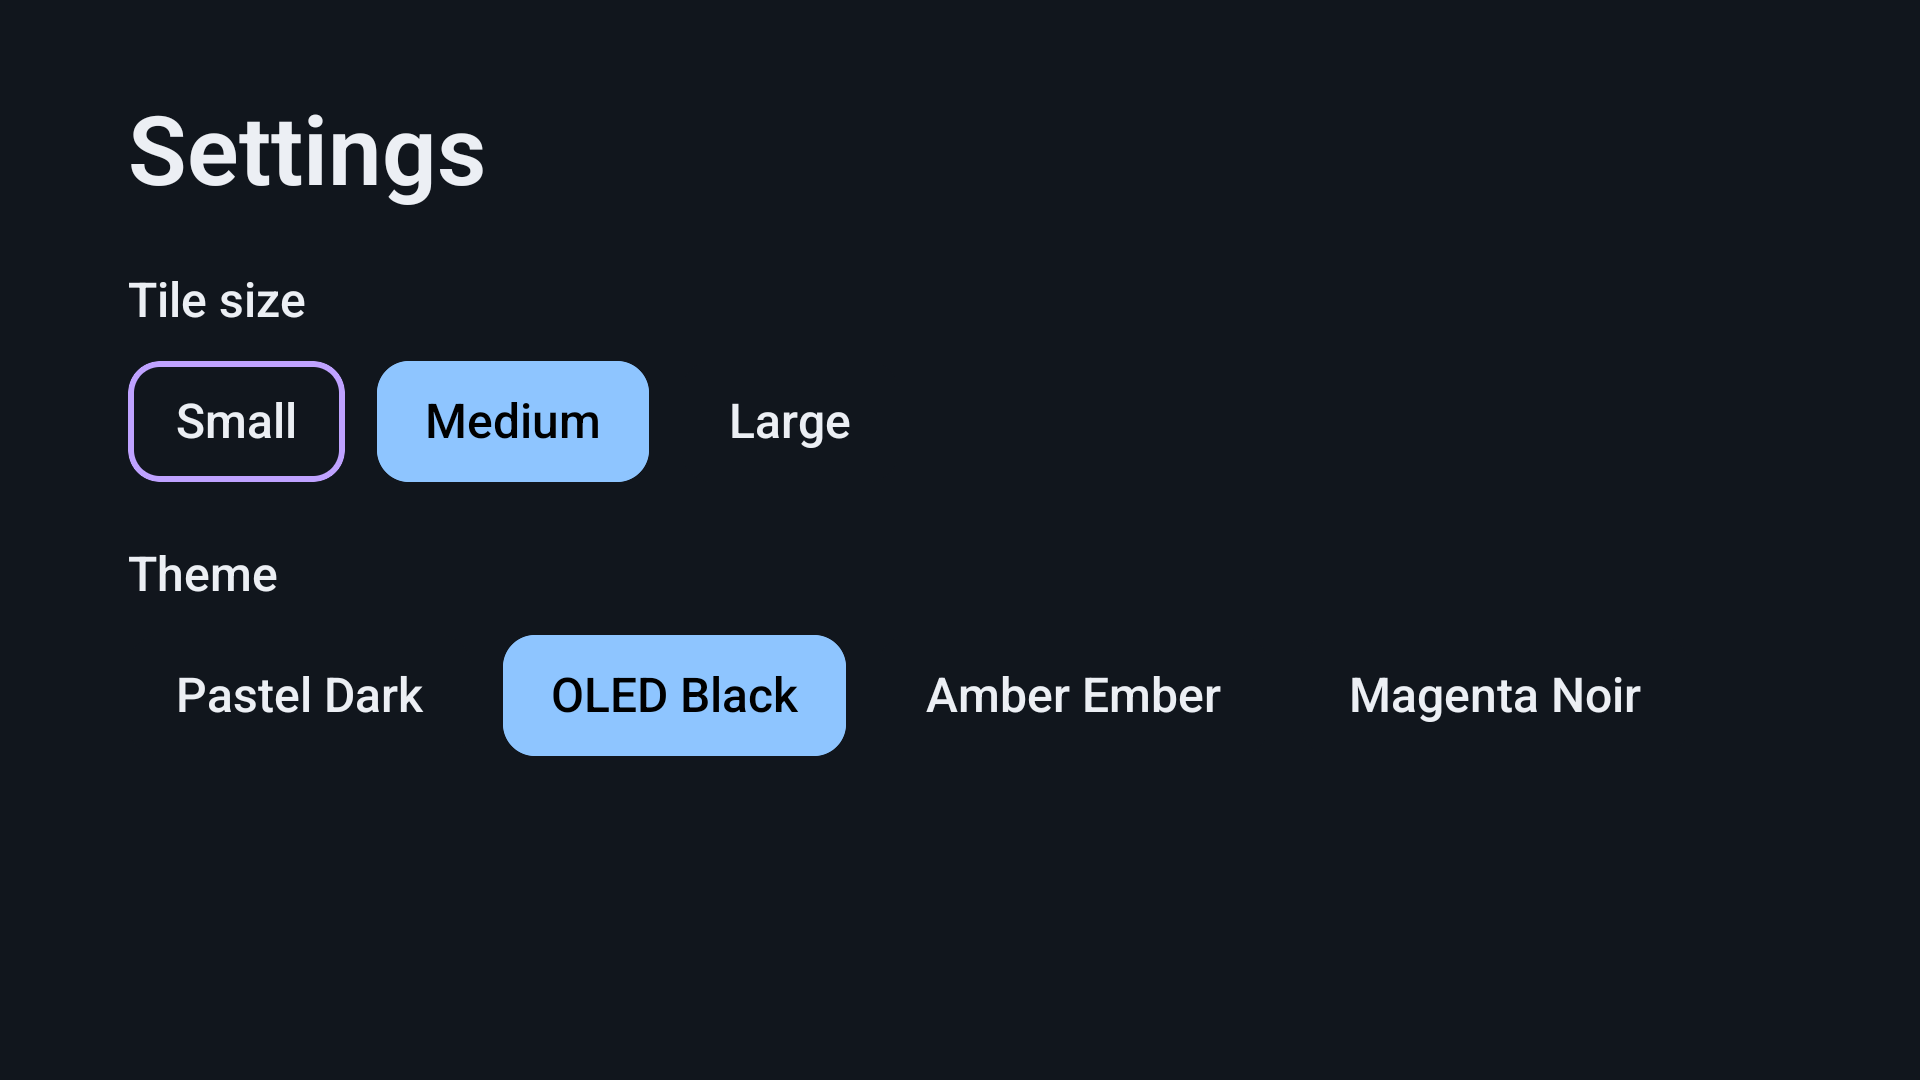
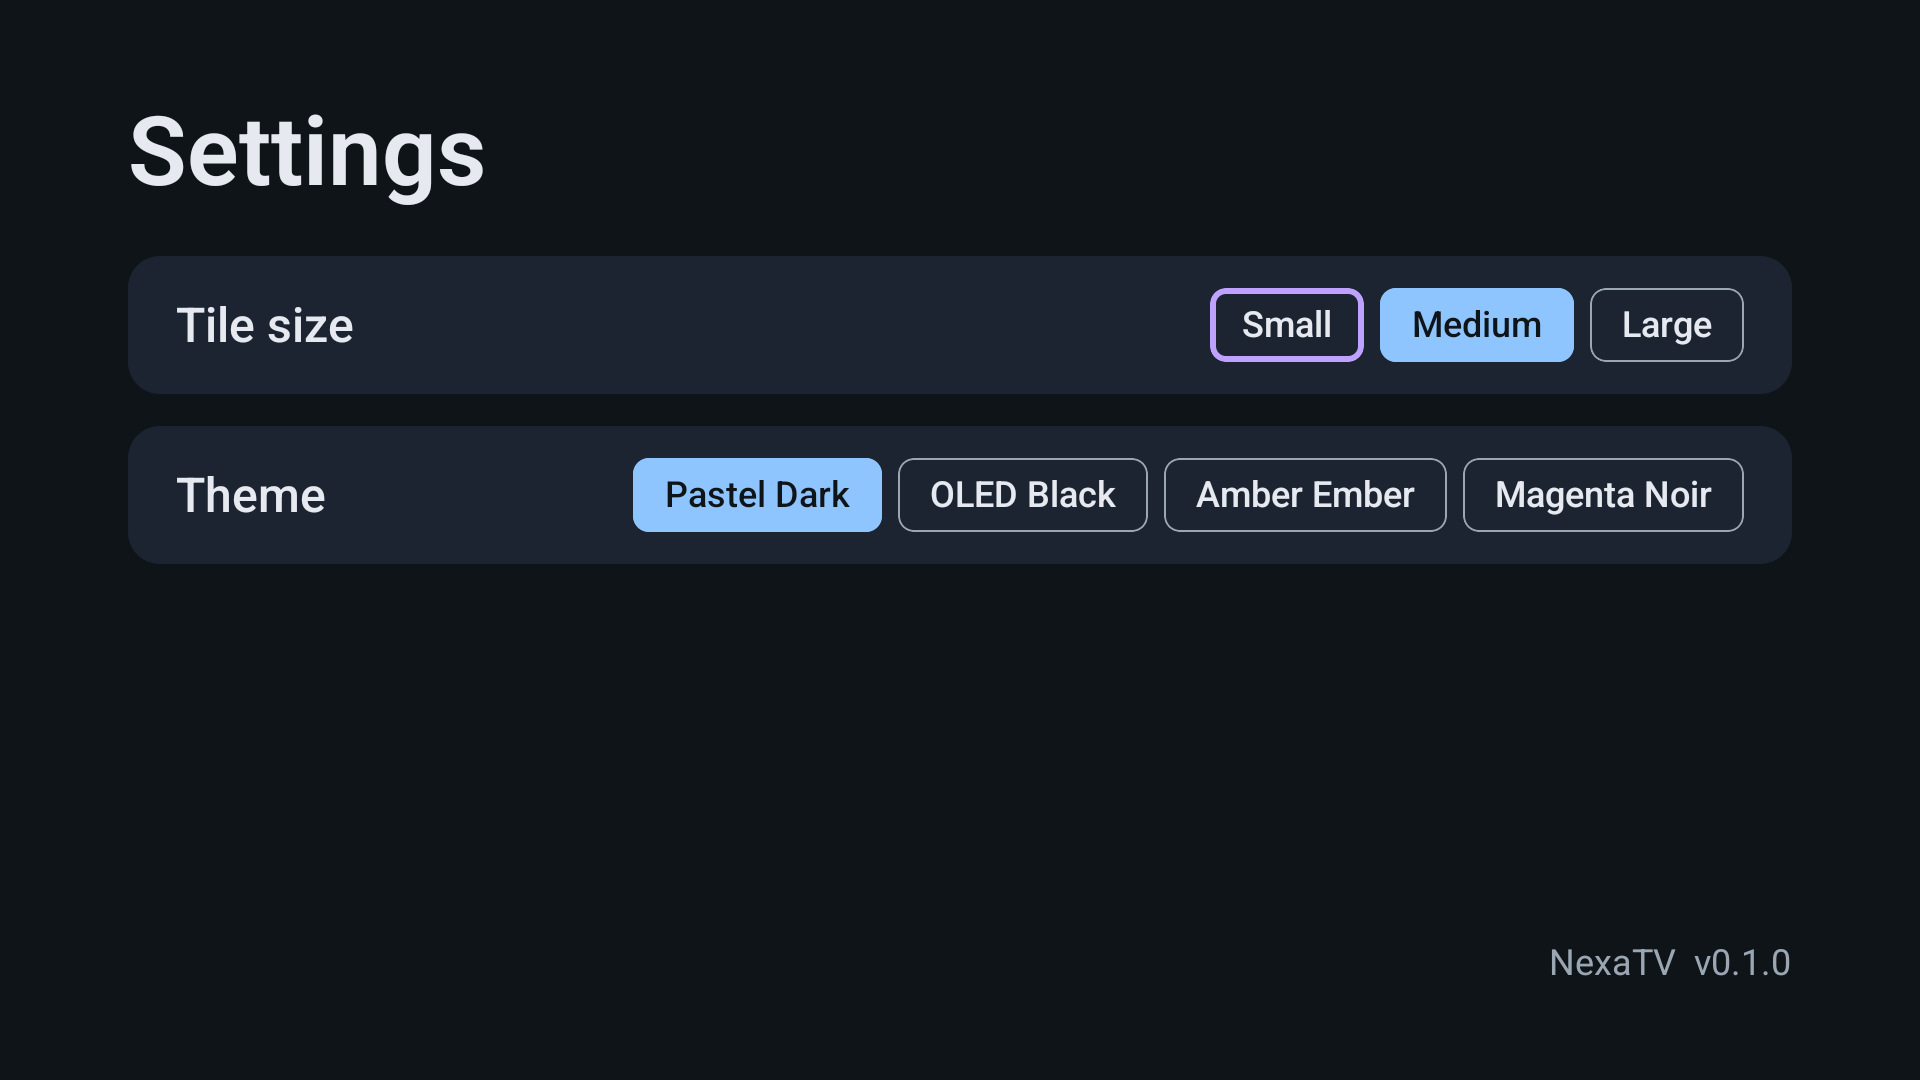
feat(settings): redesign Settings as card rows with faint build version
Each setting is now a compact card row — name on the left, smaller 18sp
option chips on the right — instead of loose oversized blocks, so the screen
reads like a real TV settings menu. The screen sits on the base surface so the
surfaceVariant cards lift off it; unselected chips keep a muted outline.

Add a faint 'NexaTV v<version>' in the bottom-right corner, read from
BuildConfig.VERSION_NAME (BuildConfig enabled for this one field). Bump the
local version default to 0.2.0/200; release CI still derives it from the tag.

Refresh docs/screenshots/settings.png to the new design.

diff --git a/app/src/main/java/com/nexatv/launcher/ui/settings/SettingsScreen.kt b/app/src/main/java/com/nexatv/launcher/ui/settings/SettingsScreen.kt
@@ -16,35 +16,40 @@ import androidx.compose.foundation.clickable
 import androidx.compose.foundation.interaction.MutableInteractionSource
 import androidx.compose.foundation.interaction.collectIsFocusedAsState
 import androidx.compose.foundation.layout.Arrangement
+import androidx.compose.foundation.layout.Box
 import androidx.compose.foundation.layout.Column
 import androidx.compose.foundation.layout.Row
+import androidx.compose.foundation.layout.RowScope
 import androidx.compose.foundation.layout.fillMaxSize
+import androidx.compose.foundation.layout.fillMaxWidth
 import androidx.compose.foundation.layout.padding
 import androidx.compose.foundation.shape.RoundedCornerShape
 import androidx.compose.runtime.Composable
 import androidx.compose.runtime.LaunchedEffect
 import androidx.compose.runtime.getValue
 import androidx.compose.runtime.remember
+import androidx.compose.ui.Alignment
 import androidx.compose.ui.Modifier
 import androidx.compose.ui.draw.clip
 import androidx.compose.ui.focus.FocusRequester
 import androidx.compose.ui.focus.focusRequester
+import androidx.compose.ui.graphics.Color
 import androidx.compose.ui.res.stringResource
 import androidx.compose.ui.unit.dp
 import androidx.tv.material3.ExperimentalTvMaterial3Api
 import androidx.tv.material3.MaterialTheme
-import androidx.tv.material3.Surface
 import androidx.tv.material3.Text
 import com.nexatv.launcher.R
 import com.nexatv.launcher.data.ThemeChoice
 import com.nexatv.launcher.data.TileSize
-import com.nexatv.launcher.ui.components.SectionHeader
 import com.nexatv.launcher.ui.theme.NexaTheme
 
 /**
- * The Settings surface (M5.1 / ADR-0009): a plain D-pad list. v1 holds one row — the home tile size —
- * whose options write through immediately (no Save button), so the home grid updates live via the
- * settings Flow. BACK returns to Home; that is handled by the caller, which owns the screen state.
+ * The Settings surface (ADR-0009): a short D-pad list of setting rows. Each row is a contained card —
+ * its name on the left, its selectable options on the right — so the screen reads like a real TV
+ * settings menu rather than loose blocks. Options write through immediately (no Save button): the home
+ * grid and theme update live via the settings Flow. A faint build version sits in the bottom-right
+ * corner. BACK returns to Home; that is handled by the caller, which owns the screen state.
  */
 @OptIn(ExperimentalTvMaterial3Api::class)
 @Composable
@@ -53,73 +58,108 @@ internal fun SettingsScreen(
     onSelectTileSize: (TileSize) -> Unit,
     theme: ThemeChoice,
     onSelectTheme: (ThemeChoice) -> Unit,
+    versionName: String,
     modifier: Modifier = Modifier,
 ) {
-    Surface(modifier = modifier.fillMaxSize()) {
-        Column(
-            modifier = Modifier
-                .fillMaxSize()
-                .padding(
-                    horizontal = NexaTheme.spacing.safeAreaHorizontal,
-                    vertical = NexaTheme.spacing.screenMargin,
-                ),
-            verticalArrangement = Arrangement.spacedBy(NexaTheme.spacing.lg),
-        ) {
+    Box(
+        modifier = modifier
+            .fillMaxSize()
+            // The screen sits on the deep base surface so the surfaceVariant setting cards lift off it;
+            // tv-material's default Surface paints surfaceVariant, which would hide the cards.
+            .background(NexaTheme.colors.surface)
+            .padding(
+                horizontal = NexaTheme.spacing.safeAreaHorizontal,
+                vertical = NexaTheme.spacing.screenMargin,
+            ),
+    ) {
+        Column(verticalArrangement = Arrangement.spacedBy(NexaTheme.spacing.md)) {
             Text(
                 text = stringResource(R.string.settings_title),
                 style = MaterialTheme.typography.displayLarge,
                 color = NexaTheme.colors.onSurface,
+                modifier = Modifier.padding(bottom = NexaTheme.spacing.sm),
             )
             TileSizeRow(selected = tileSize, onSelect = onSelectTileSize)
             ThemeRow(selected = theme, onSelect = onSelectTheme)
         }
+
+        // Faint build version, low-emphasis, pinned to the bottom-right corner.
+        Text(
+            text = "NexaTV  v$versionName",
+            style = MaterialTheme.typography.bodyMedium,
+            color = NexaTheme.colors.onSurfaceMuted,
+            modifier = Modifier.align(Alignment.BottomEnd),
+        )
     }
 }
 
-/** The "Tile size" setting: a label above three selectable S/M/L options that write on focus-select. */
+/** The "Tile size" setting row: S/M/L options that write on select; initial focus lands here. */
 @OptIn(ExperimentalTvMaterial3Api::class)
 @Composable
 private fun TileSizeRow(selected: TileSize, onSelect: (TileSize) -> Unit) {
     val firstOption = remember { FocusRequester() }
-    Column(verticalArrangement = Arrangement.spacedBy(NexaTheme.spacing.sm)) {
-        SectionHeader(title = stringResource(R.string.settings_tile_size))
-        Row(horizontalArrangement = Arrangement.spacedBy(NexaTheme.spacing.md)) {
-            TileSize.entries.forEachIndexed { index, size ->
-                SettingOptionChip(
-                    label = stringResource(size.labelRes()),
-                    selected = size == selected,
-                    onClick = { onSelect(size) },
-                    modifier = if (index == 0) Modifier.focusRequester(firstOption) else Modifier,
-                )
-            }
+    SettingRow(label = stringResource(R.string.settings_tile_size)) {
+        TileSize.entries.forEachIndexed { index, size ->
+            SettingOptionChip(
+                label = stringResource(size.labelRes()),
+                selected = size == selected,
+                onClick = { onSelect(size) },
+                modifier = if (index == 0) Modifier.focusRequester(firstOption) else Modifier,
+            )
         }
     }
     // Land focus on the first option so the remote acts immediately on entering Settings (FR-006).
     LaunchedEffect(Unit) { runCatching { firstOption.requestFocus() } }
 }
 
-/** The "Theme" setting: a label above the selectable color-theme options that write on select. */
+/** The "Theme" setting row: the color-theme options that write on select. */
 @OptIn(ExperimentalTvMaterial3Api::class)
 @Composable
 private fun ThemeRow(selected: ThemeChoice, onSelect: (ThemeChoice) -> Unit) {
-    Column(verticalArrangement = Arrangement.spacedBy(NexaTheme.spacing.sm)) {
-        SectionHeader(title = stringResource(R.string.settings_theme))
-        Row(horizontalArrangement = Arrangement.spacedBy(NexaTheme.spacing.md)) {
-            ThemeChoice.entries.forEach { choice ->
-                SettingOptionChip(
-                    label = stringResource(choice.labelRes()),
-                    selected = choice == selected,
-                    onClick = { onSelect(choice) },
-                )
-            }
+    SettingRow(label = stringResource(R.string.settings_theme)) {
+        ThemeChoice.entries.forEach { choice ->
+            SettingOptionChip(
+                label = stringResource(choice.labelRes()),
+                selected = choice == selected,
+                onClick = { onSelect(choice) },
+            )
         }
     }
 }
 
 /**
- * One selectable option chip, shared by every settings row. The focus ring is the navigation cue; a
- * persistent accent border marks the currently-selected value even without focus, so the active choice
- * is always visible. No ripple.
+ * One setting as a card: the [label] on the left, its [options] grouped on the right. The card's
+ * surfaceVariant fill separates the row from the base surface so each setting reads as its own block.
+ */
+@OptIn(ExperimentalTvMaterial3Api::class)
+@Composable
+private fun SettingRow(
+    label: String,
+    options: @Composable RowScope.() -> Unit,
+) {
+    Row(
+        modifier = Modifier
+            .fillMaxWidth()
+            .clip(RoundedCornerShape(NexaTheme.radius.md))
+            .background(NexaTheme.colors.surfaceVariant)
+            .padding(horizontal = NexaTheme.spacing.lg, vertical = NexaTheme.spacing.md),
+        verticalAlignment = Alignment.CenterVertically,
+        horizontalArrangement = Arrangement.SpaceBetween,
+    ) {
+        Text(
+            text = label,
+            style = MaterialTheme.typography.titleLarge,
+            color = NexaTheme.colors.onSurface,
+        )
+        Row(horizontalArrangement = Arrangement.spacedBy(NexaTheme.spacing.sm)) { options() }
+    }
+}
+
+/**
+ * One selectable option chip, shared by every settings row. Smaller than a page control: 18sp label
+ * with tight padding. The focus ring is the navigation cue; a persistent accent fill marks the active
+ * value even without focus, and an unselected chip keeps a muted outline so it stays visible on the
+ * card. No ripple.
  */
 @OptIn(ExperimentalTvMaterial3Api::class)
 @Composable
@@ -132,22 +172,22 @@ private fun SettingOptionChip(
     val interaction = remember { MutableInteractionSource() }
     val focused by interaction.collectIsFocusedAsState()
     val colors = NexaTheme.colors
-    val shape = RoundedCornerShape(NexaTheme.radius.md)
+    val shape = RoundedCornerShape(NexaTheme.radius.sm)
 
     Text(
         text = label,
-        style = MaterialTheme.typography.titleLarge,
+        style = MaterialTheme.typography.labelLarge,
         color = if (selected) colors.onAccent else colors.onSurface,
         modifier = modifier
             .clip(shape)
-            .background(if (selected) colors.accent else colors.surfaceVariant)
+            .background(if (selected) colors.accent else Color.Transparent)
             .border(
                 border = BorderStroke(
                     width = if (focused) 3.dp else 1.dp,
                     color = when {
                         focused -> colors.focusRing
                         selected -> colors.accent
-                        else -> colors.surfaceVariant
+                        else -> colors.onSurfaceMuted
                     },
                 ),
                 shape = shape,
@@ -157,7 +197,7 @@ private fun SettingOptionChip(
                 indication = null,
                 onClick = onClick,
             )
-            .padding(horizontal = NexaTheme.spacing.lg, vertical = NexaTheme.spacing.md),
+            .padding(horizontal = NexaTheme.spacing.md, vertical = NexaTheme.spacing.sm),
     )
 }
 

diff --git a/app/src/main/java/com/nexatv/launcher/MainActivity.kt b/app/src/main/java/com/nexatv/launcher/MainActivity.kt
@@ -150,6 +150,7 @@ private fun LauncherApp() {
                 onSelectTileSize = viewModel::setTileSize,
                 theme = appsState?.theme ?: ThemeChoice.Default,
                 onSelectTheme = viewModel::setTheme,
+                versionName = BuildConfig.VERSION_NAME,
             )
         }
     }

diff --git a/CHANGELOG.md b/CHANGELOG.md
@@ -6,6 +6,18 @@ versioning follows [SemVer](https://semver.org/) (ADR-0003 D5).
 
 ## [Unreleased]
 
+## [0.2.0] - 2026-10-21
+
+### Changed
+- Settings redesign: each setting is now a compact card row — its name on the left, smaller
+  option chips (18sp) on the right — so the screen reads like a real TV settings menu instead of
+  loose oversized blocks. The screen sits on the base surface so the cards lift off it, and
+  unselected chips keep a muted outline for visibility.
+
+### Added
+- A faint build version (`NexaTV v<version>`) pinned to the bottom-right of Settings, read from
+  `BuildConfig.VERSION_NAME` (BuildConfig enabled for this one field).
+
 ## [0.1.0] - 2026-10-21
 
 First tagged, signed release. Sideloaded on the real TCL (Android TV OS 14, `armeabi-v7a`).
